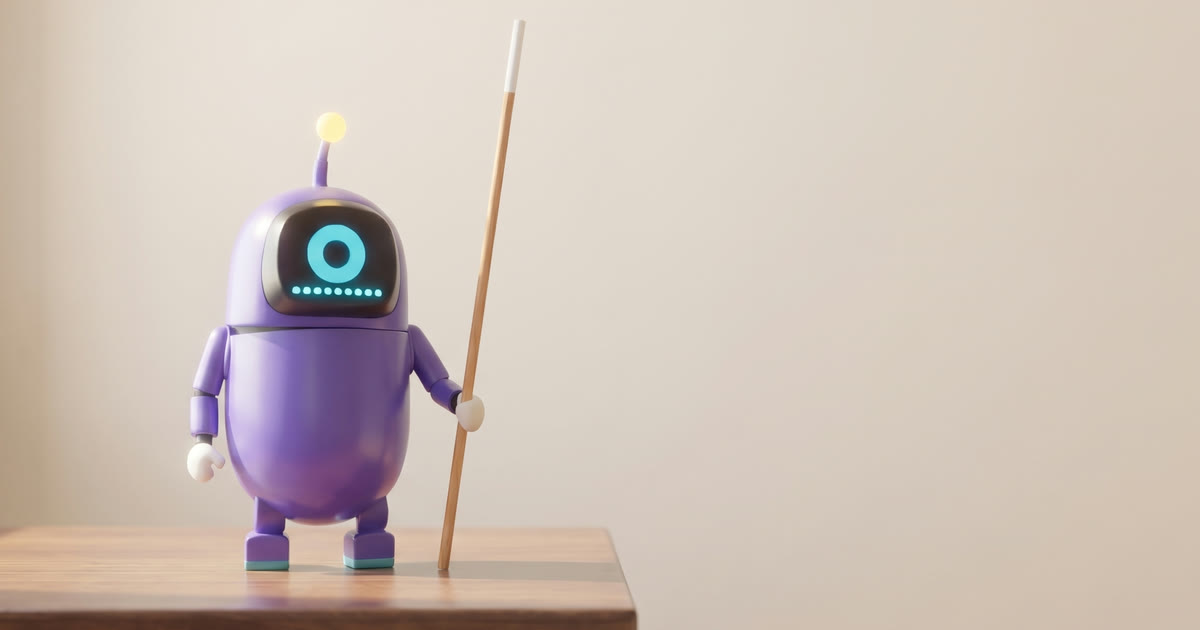
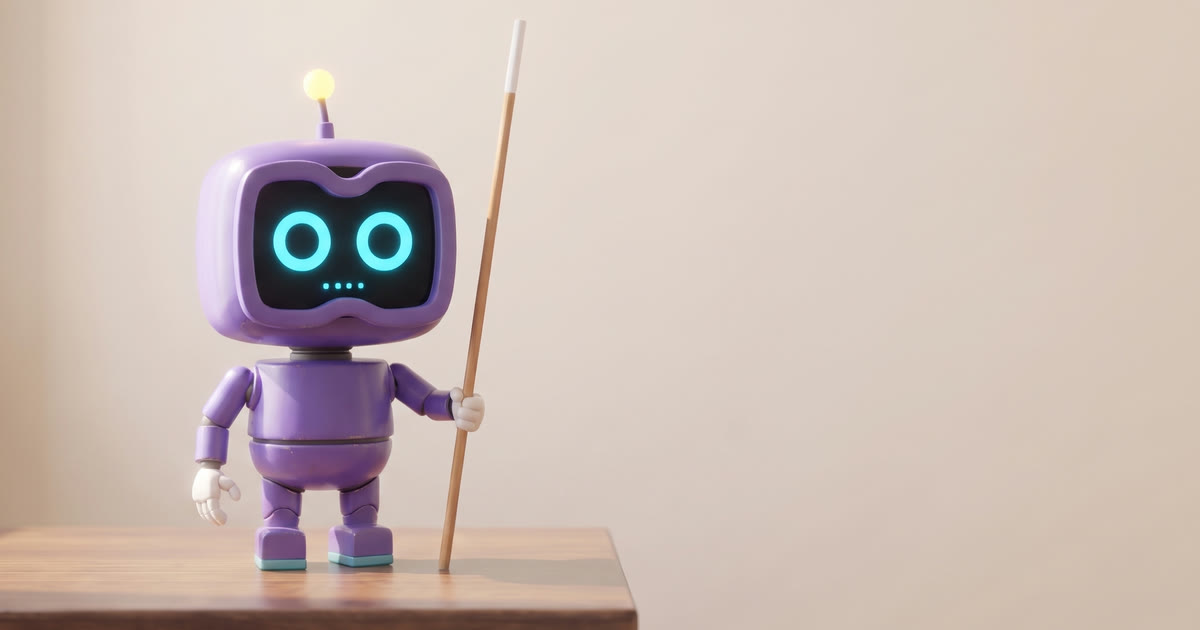
Show the redesigned robot on the page
The robot's design changed on 2026-11-18 (blocky, big head, a jutting
spectacle-like frame, two digital eyes). The hero picture, phone crop,
link-preview image and alt text now show him.

Changed region(s): [[0.1542, 0.0905, 0.4317, 0.9349], [0.37, 0.7841, 0.4008, 0.8444]]

diff --git a/docs/index.html b/docs/index.html
@@ -30,7 +30,7 @@
 		<meta property="og:image:height" content="630" />
 		<meta
 			property="og:image:alt"
-			content="The Robotutor robot, small and purple with one round cyan eye, standing on a wooden desk in daylight."
+			content="The Robotutor robot, small, purple and blocky with a big square head and two round cyan eyes, standing on a wooden desk in daylight."
 		/>
 		<meta name="twitter:card" content="summary_large_image" />
 		<link rel="icon" href="assets/favicon.svg" type="image/svg+xml" />
@@ -51,7 +51,7 @@
 						src="assets/robot.jpg"
 						width="2400"
 						height="1340"
-						alt="The Robotutor robot: small and purple, with one round cyan eye, standing on a wooden desk in daylight with a pointer in its hand."
+						alt="The Robotutor robot: small, purple and blocky, with a big square head and two round cyan eyes, standing on a wooden desk in daylight with a pointer in its hand."
 					/>
 				</picture>
 
